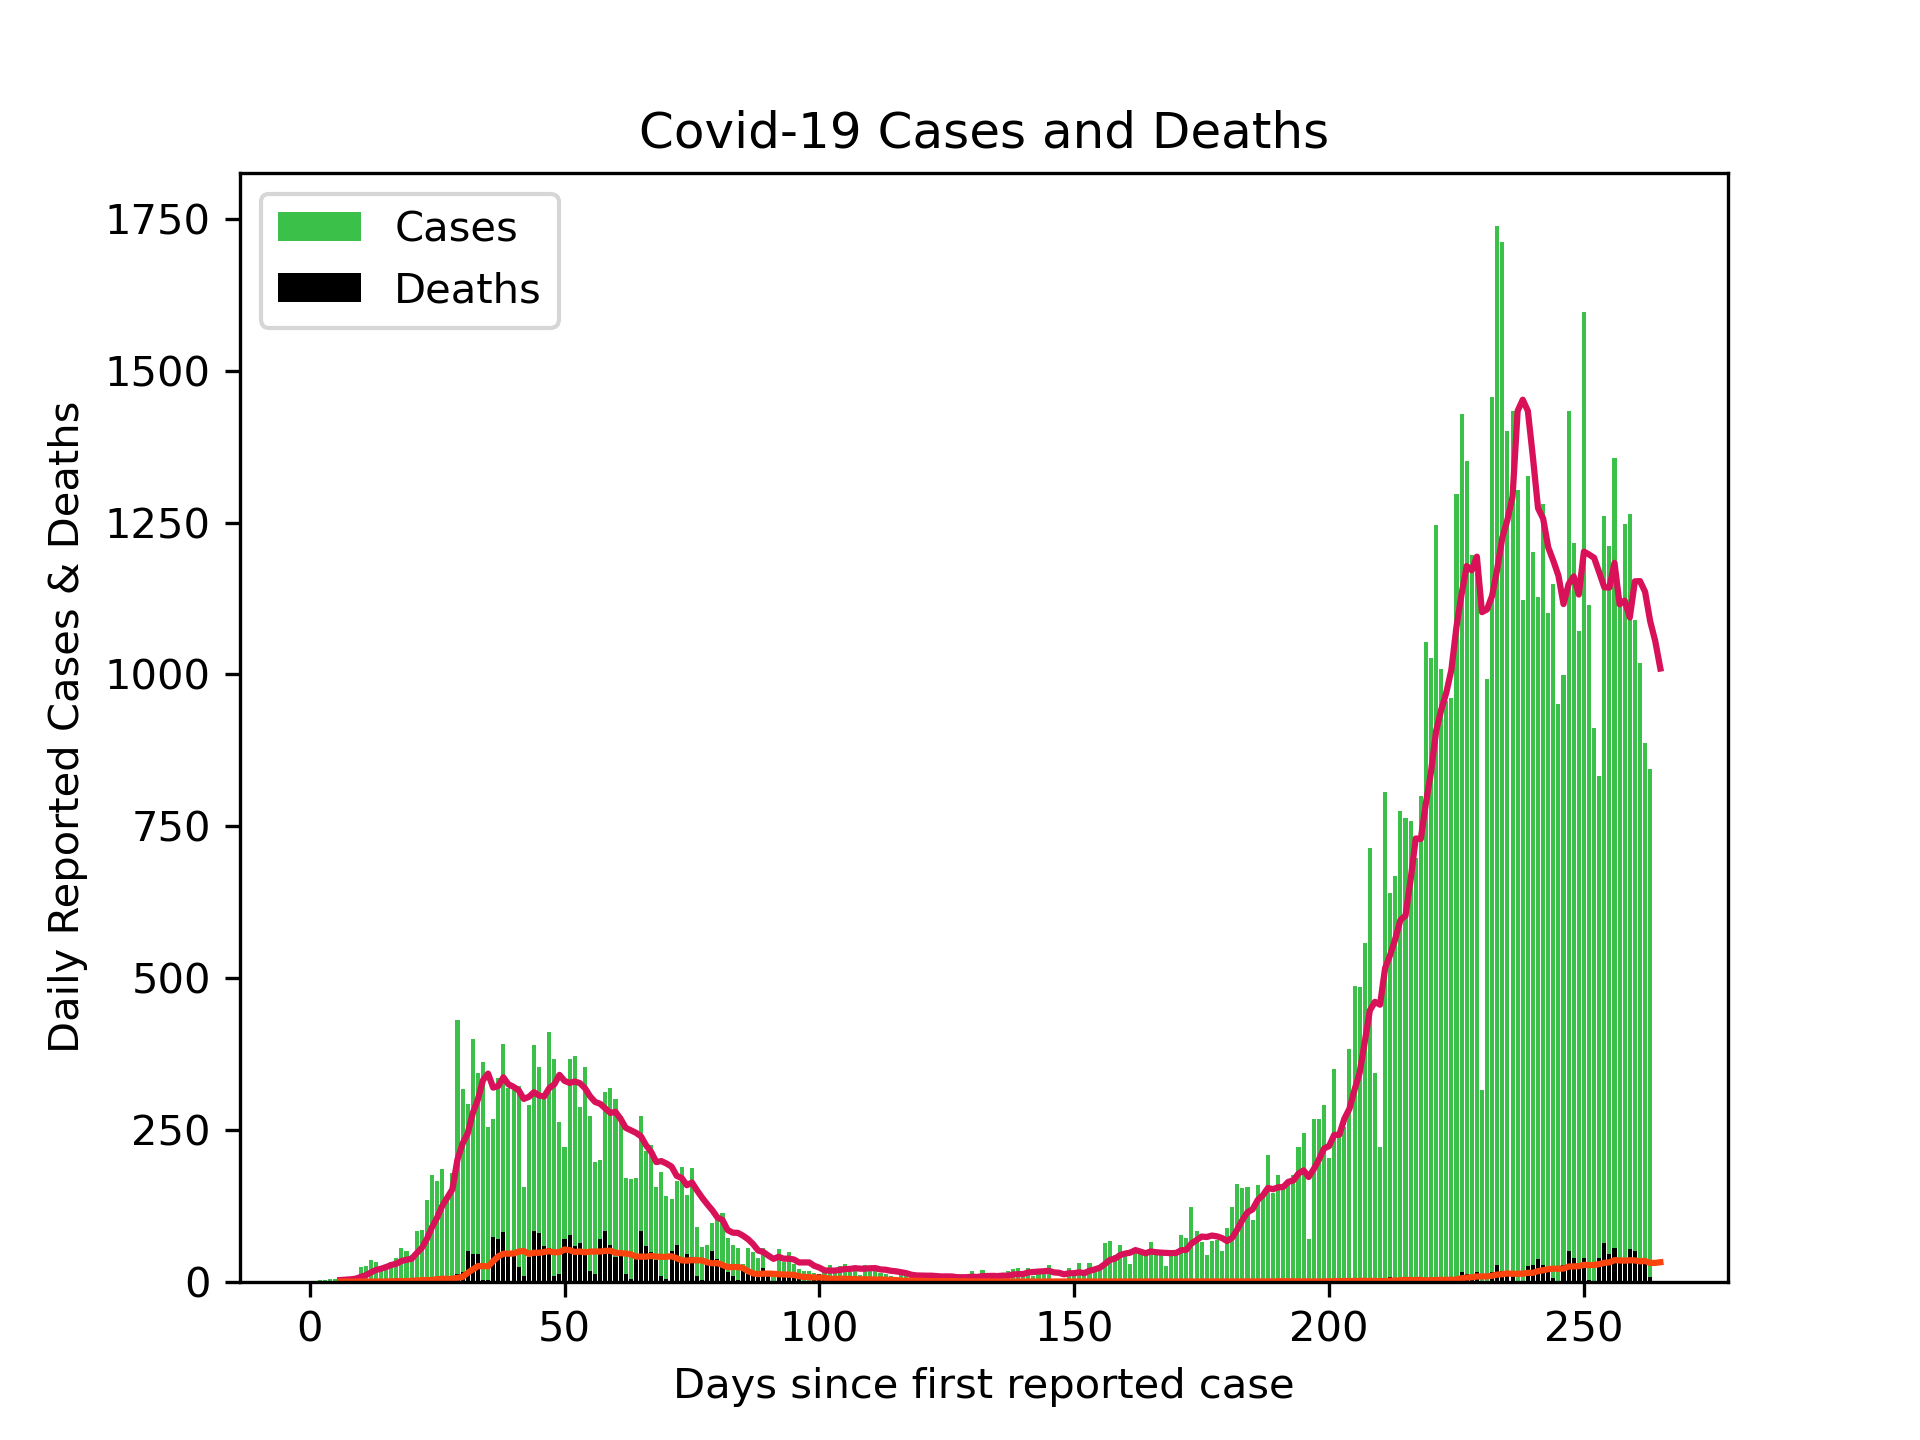
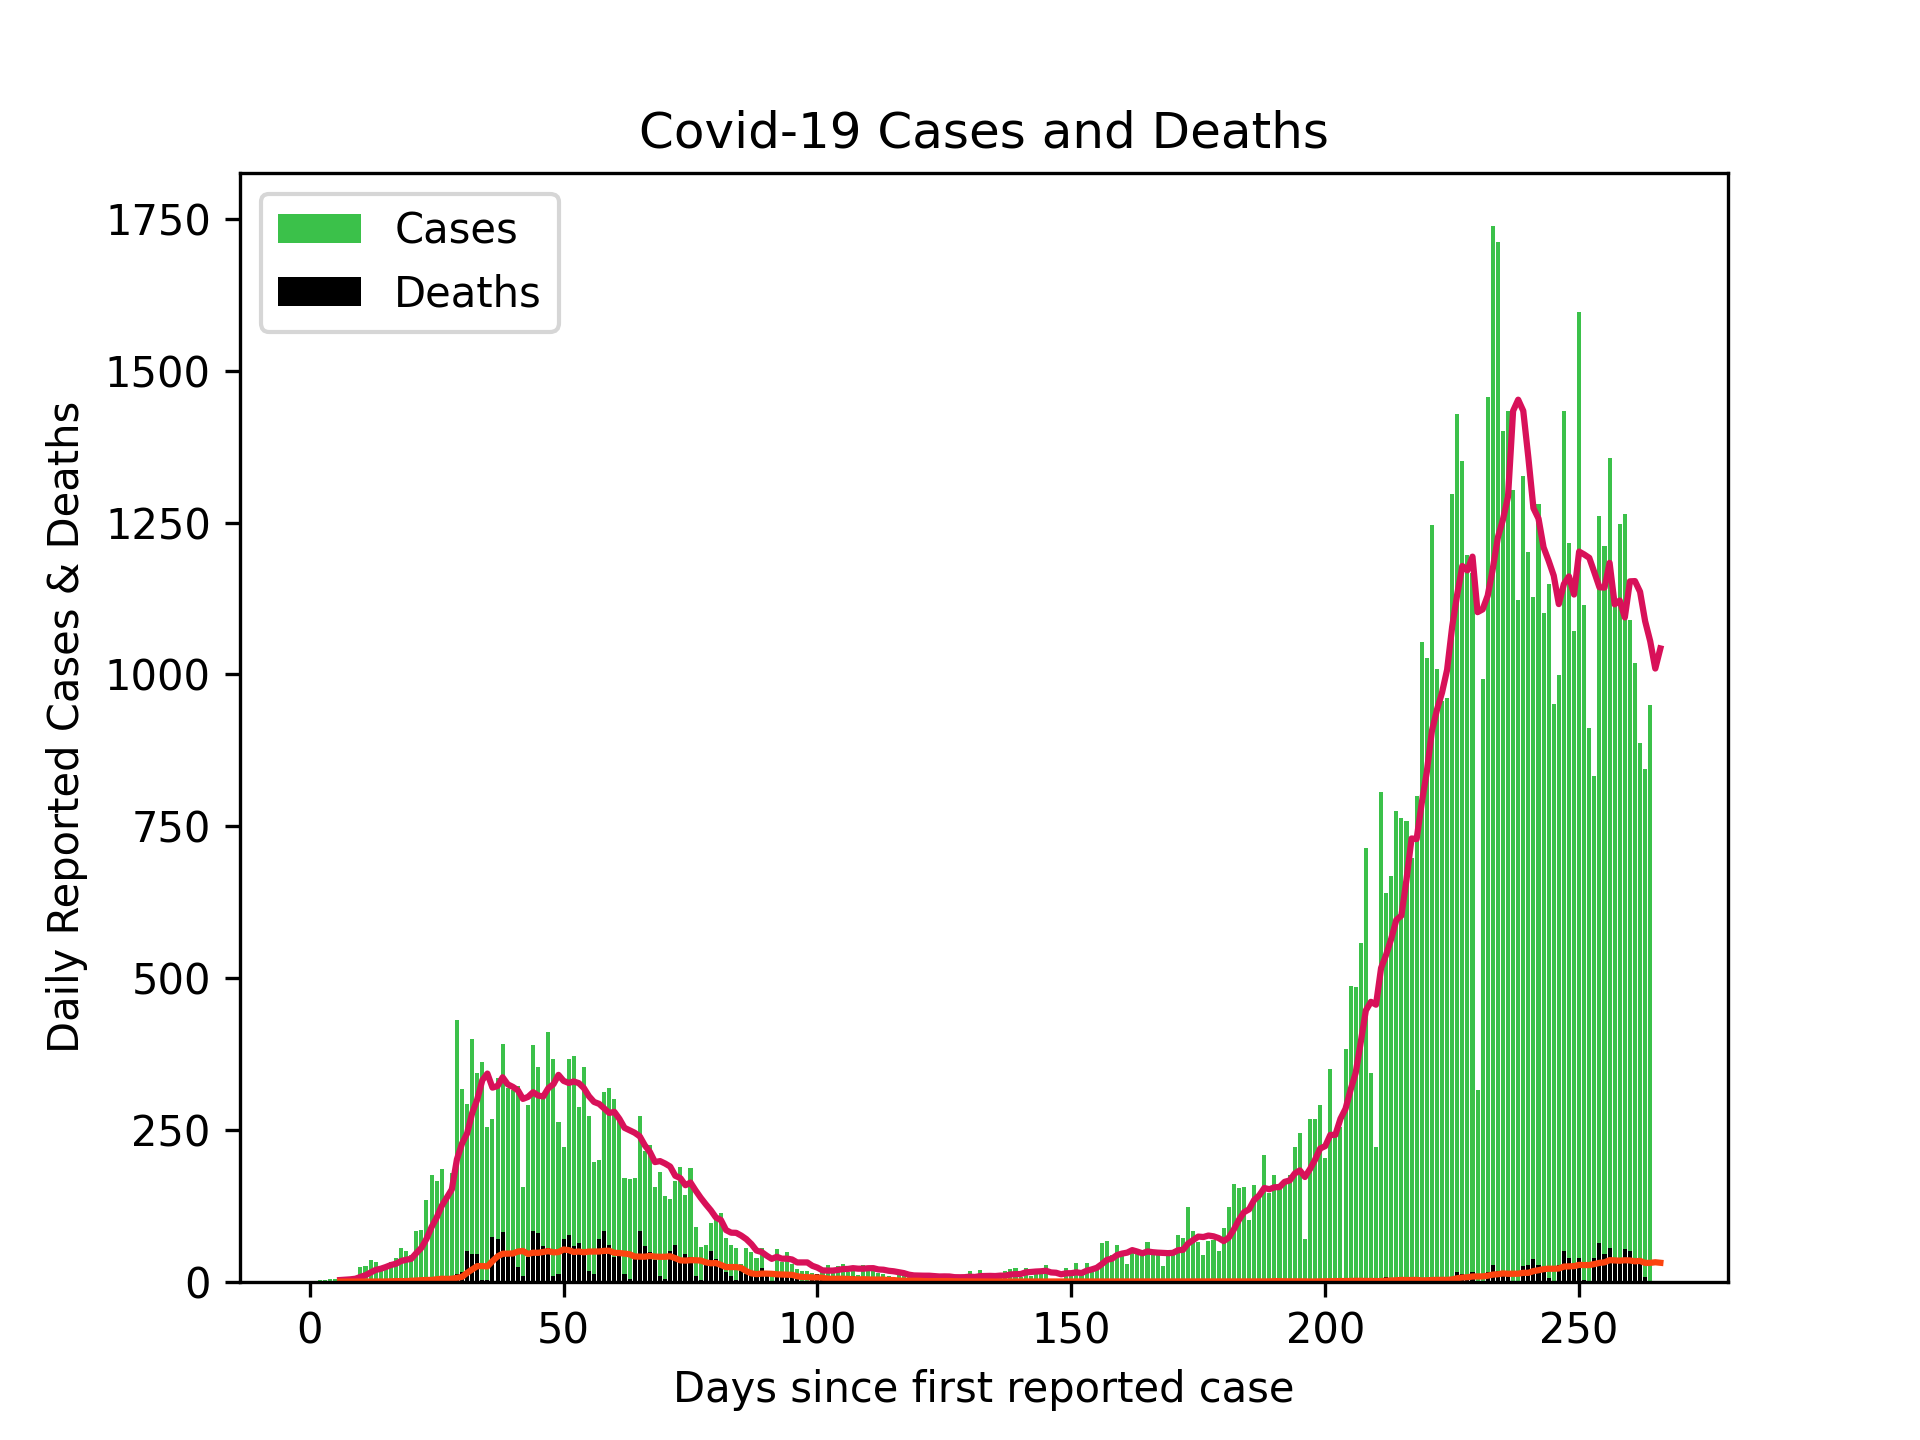
Updated Scottish cases 23/11/20

diff --git a/README.md b/README.md
@@ -1,3 +1,3 @@
-# Scottish Cases 22/11/20
+# Scottish Cases 23/11/20
 ![alt](scottish_cases.png)
 
